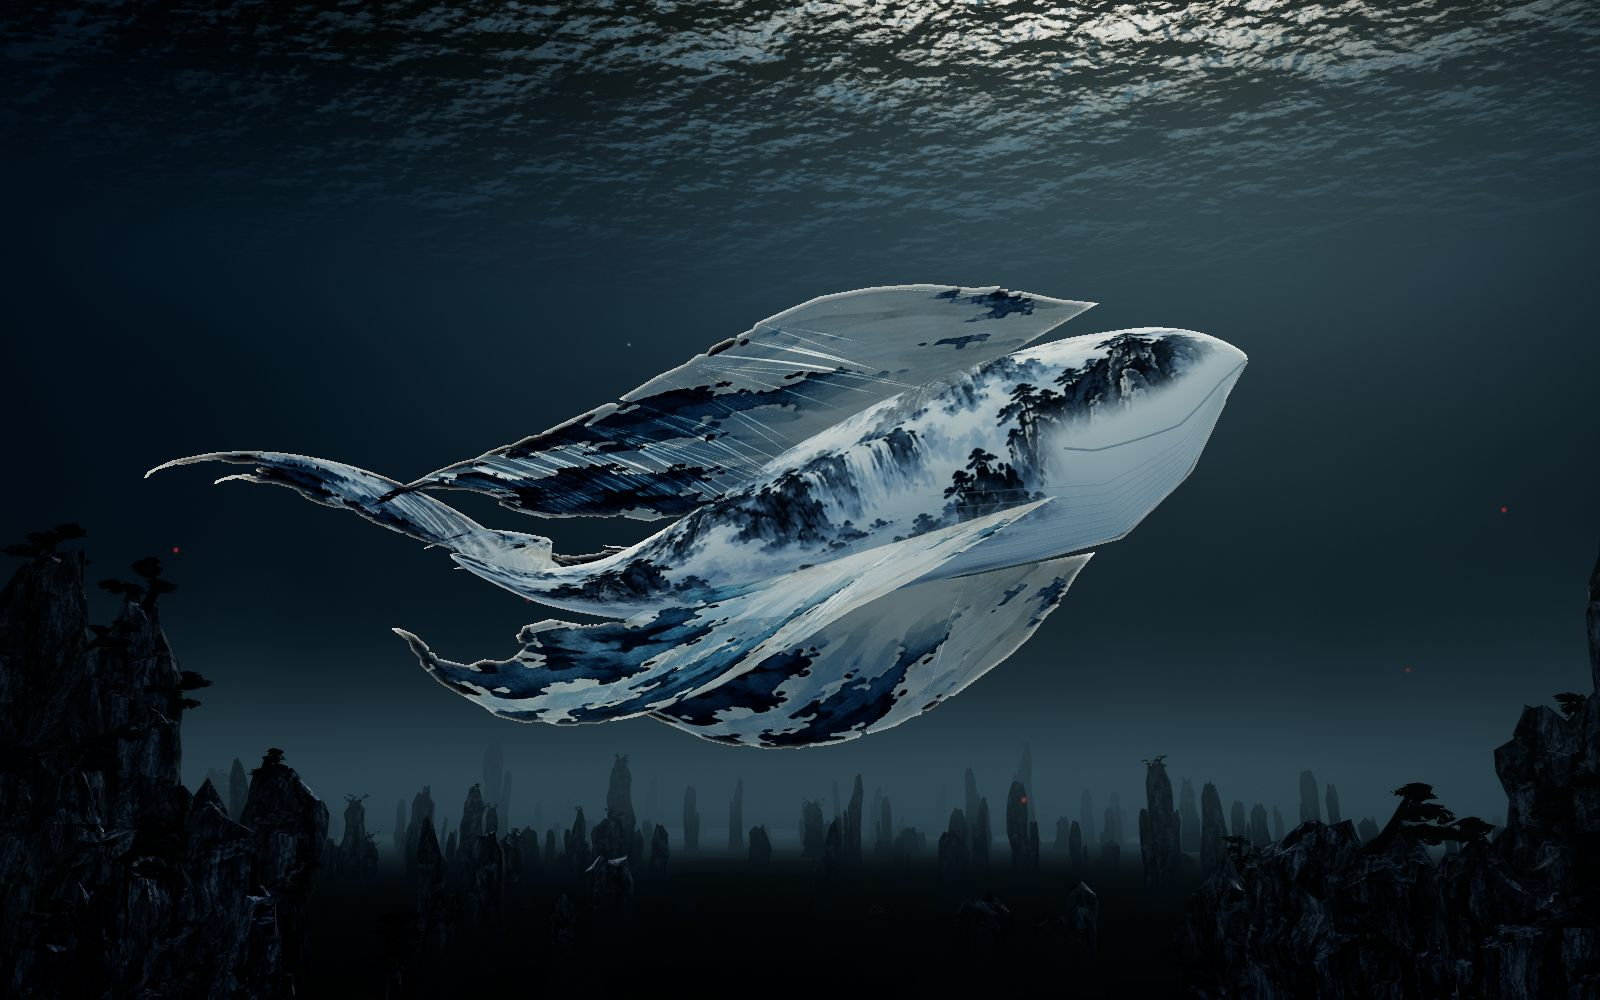
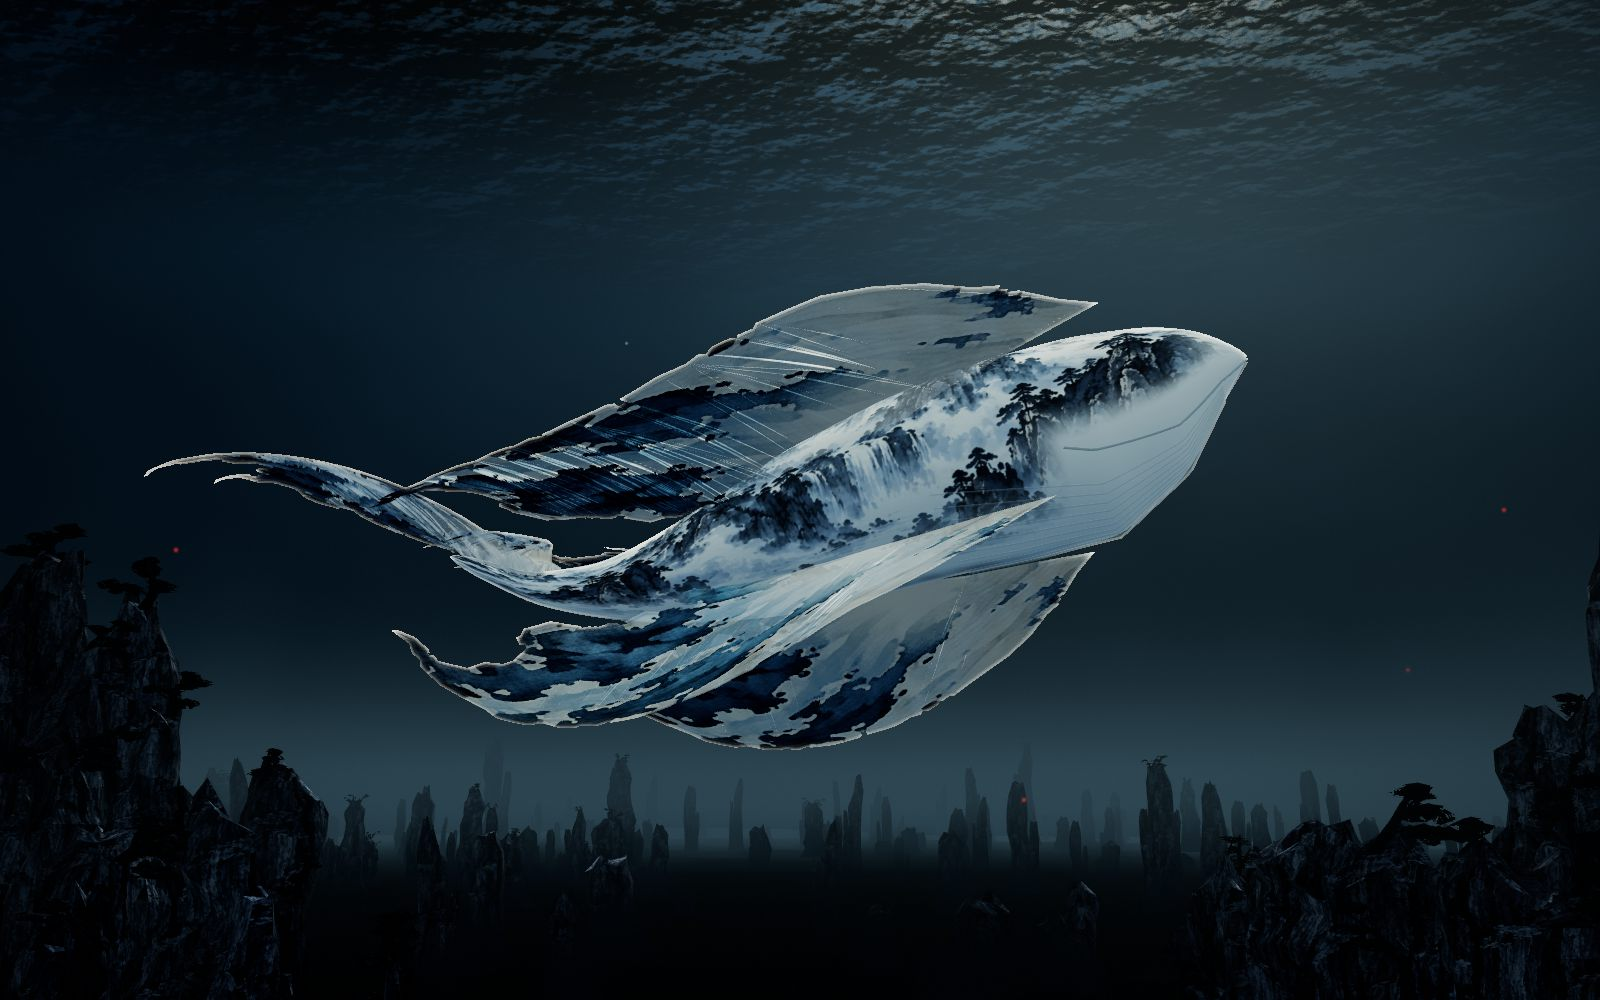
xiaoyaoyou: M4 rays fall in uneven clusters and break along their length; test scene has no fog bank

diff --git a/games/xiaoyaoyou/src/post.js b/games/xiaoyaoyou/src/post.js
@@ -177,17 +177,20 @@ void main(){
   for(int i=0;i<RAYS;i++){
     vec4 r=uRays[i];
     float across=(angle-r.x)/r.y, along=below/(r.z*tall);
-    rays+=r.w*exp(-across*across)*exp(-along*along);
+    // Each ray is interrupted along its own length, so none runs as one smooth bar.
+    float gaps=texture2D(tGobo,vec2(r.x*7.3+float(i)*.37,below*1.5+uTime*.003)).b;
+    rays+=r.w*exp(-across*across)*exp(-along*along)*smoothstep(.22,.62,gaps);
   }
   float strands=texture2D(tGobo,vec2(angle*5.1+uTime*.004,.13)).a;
   float broken=.4+1.2*texture2D(tGobo,vec2(angle*2.3,below*.9+uTime*.002)).b;
   // Light gathers around one opening in the surface.
   vec2 source=(vUv-clamp(uVanish,vec2(.08,0.),vec2(.92,1.06)))*vec2(uAspect,1.);
   // Soft-limited: strong columns stay light in water and never become a solid wall.
-  float light=shafts*(reach/uReach)*phase*uShaftGain*22.*(.03+7.*rays*broken*(.72+.28*strands))*smoothstep(-.1,.3,vUv.y);
+  float light=shafts*(reach/uReach)*phase*uShaftGain*22.*(.03+11.5*rays*broken*(.56+.44*strands))*smoothstep(-.1,.3,vUv.y);
   vec3 scatter=uShaft*.6*(1.-exp(-light*1.7));
   // One shared bright region near the surface, which the rays visibly leave.
-  scatter+=uShaft*exp(-dot(source,source)*3.)*.13;
+  // A broad glow under the surface, which the rays are embedded in.
+  scatter+=uShaft*exp(-dot(source,source)*3.2)*.1;
   // A soft band of far water covers the line where the seabed meets the dome.
   scatter+=uMist*.05*exp(-pow(ray.y/.085,2.))*smoothstep(0.,1.,dist/(900.*sqrt(uScale)));
   // Mist hugs the seabed: march only the slab of water it lives in.
@@ -435,12 +438,15 @@ export function createPost(renderer, gobo, seedRandom) {
   quadScene.add(quad);
   const pass = (fragmentShader, uniforms) => new THREE.ShaderMaterial({ vertexShader: VERTEX, fragmentShader, uniforms, depthTest: false, depthWrite: false, toneMapped: false });
   // The table of rays: angle from straight down, half-width, reach in frame heights, strength.
+  // They fall in uneven clusters with gaps between, never at even spacing. Most die early;
+  // only a couple reach far, and those are the fainter ones.
   const rayRandom = seedRandom;
+  const clusters = [.14, .4, .52, .83];
   const RAY_SET = Array.from({ length: RAY_COUNT }, (_, i) => {
-    const place = (i + .5) / RAY_COUNT, thick = rayRandom() < .3, long = rayRandom();
-    // Most rays die early; only a couple reach far, and those are the fainter ones.
-    return { angle: (place - .5) * .78 + (rayRandom() - .5) * .07, width: thick ? .05 + rayRandom() * .05 : .016 + rayRandom() * .02,
-      reach: .16 + long * long * .62, gain: (thick ? .42 : .55 + rayRandom() * .6) * (1 - .55 * long) * (1 - Math.pow(Math.abs(place - .56) * 1.9, 2)) };
+    const place = clusters[i % clusters.length] + (rayRandom() + rayRandom() - 1) * .085;
+    const thick = rayRandom() < .3, long = rayRandom();
+    return { angle: (place - .5) * .84, width: thick ? .04 + rayRandom() * .05 : .012 + rayRandom() * .022,
+      reach: .16 + long * long * .62, gain: (thick ? .46 : .5 + rayRandom() * .7) * (1 - .55 * long) * (1 - Math.pow(Math.abs(place - .5) * 1.5, 2)) };
   });
   const volume = pass(volumeFragment.replaceAll('RAYS', String(RAY_COUNT)), {
     tDepth: { value: depthTexture }, tGobo: { value: gobo }, tMist: { value: mist }, tMistMap: { value: null },

diff --git a/games/xiaoyaoyou/src/main.js b/games/xiaoyaoyou/src/main.js
@@ -251,8 +251,8 @@ export async function createRuntime(text, onProgress) {
     u.tMistMap.value = world.mistMap;
     u.uMistTop.value = 34 + 30 * Math.sqrt(scale);
     u.uMistBottom.value = -30;
-    u.uBankTop.value = (inSea ? 1 : 0) * (22 + 13 * Math.sqrt(scale));
-    u.uBankDensity.value = layers.mist * .0065 / Math.sqrt(scale);
+    u.uBankTop.value = 22 + 13 * Math.sqrt(scale);
+    u.uBankDensity.value = inSea ? layers.mist * .0065 / Math.sqrt(scale) : 0;
     post.cards.uGain.value = layers.cards * CARD_GAIN;
     post.grade.uBloom.value = layers.bloom * BLOOM_GAIN;
     post.cards.uScale.value = scale;
